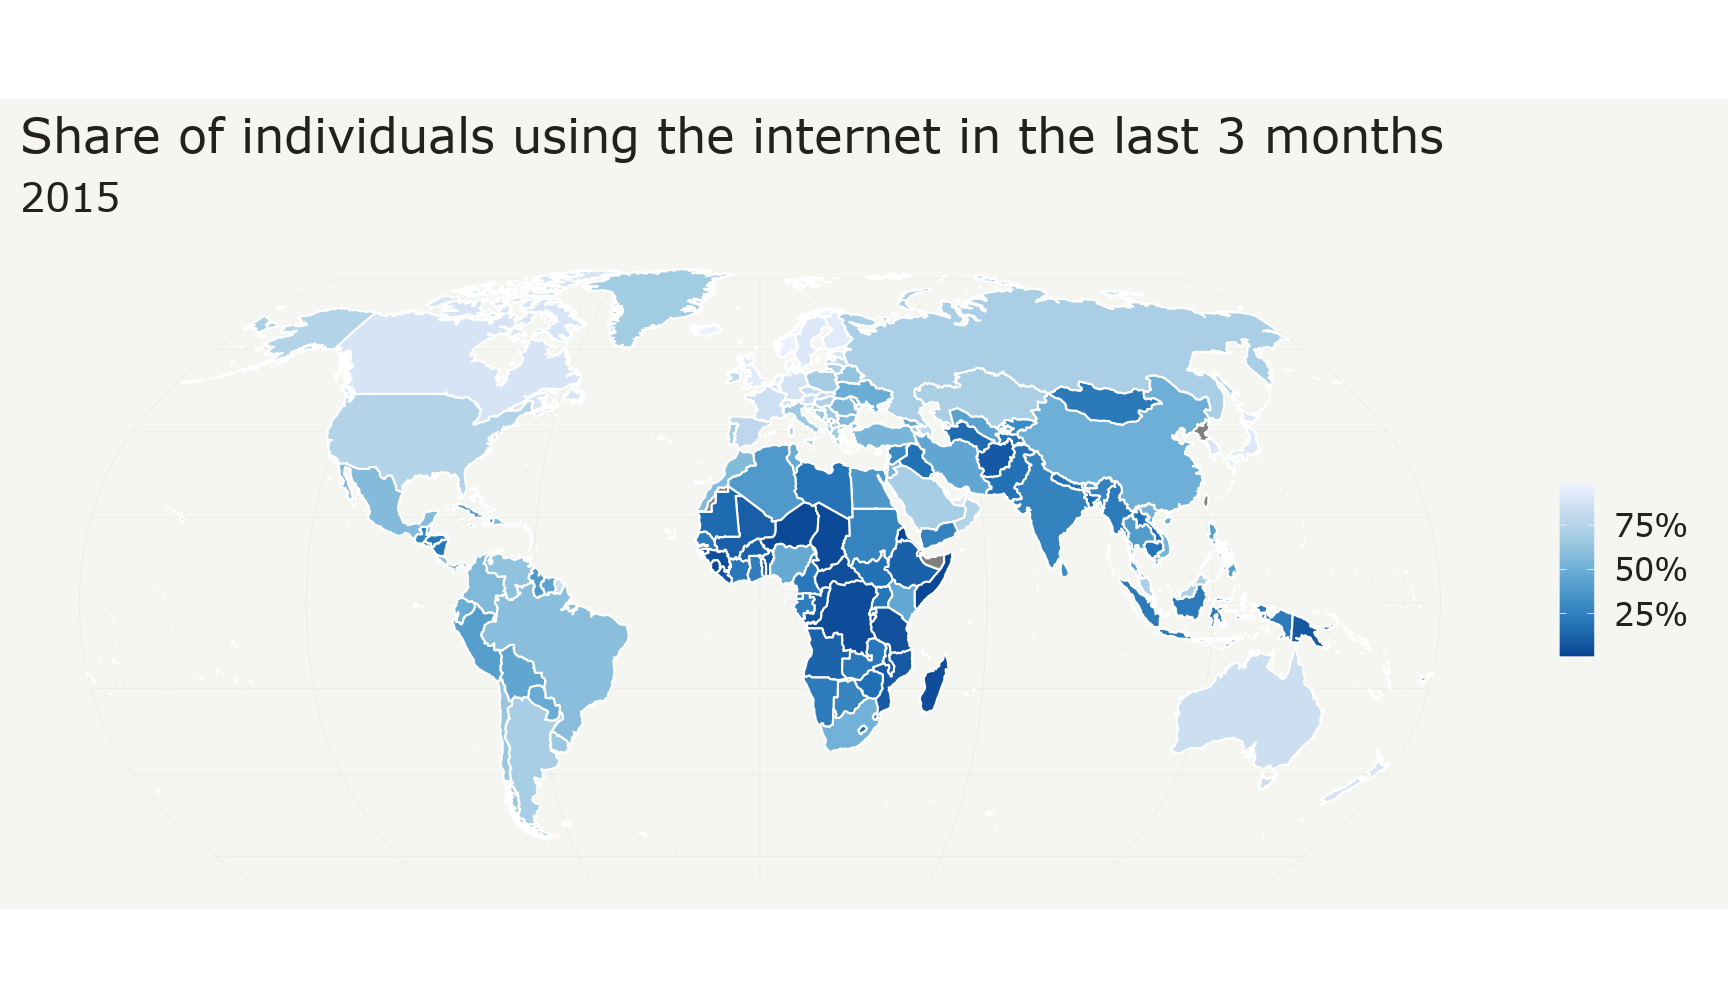
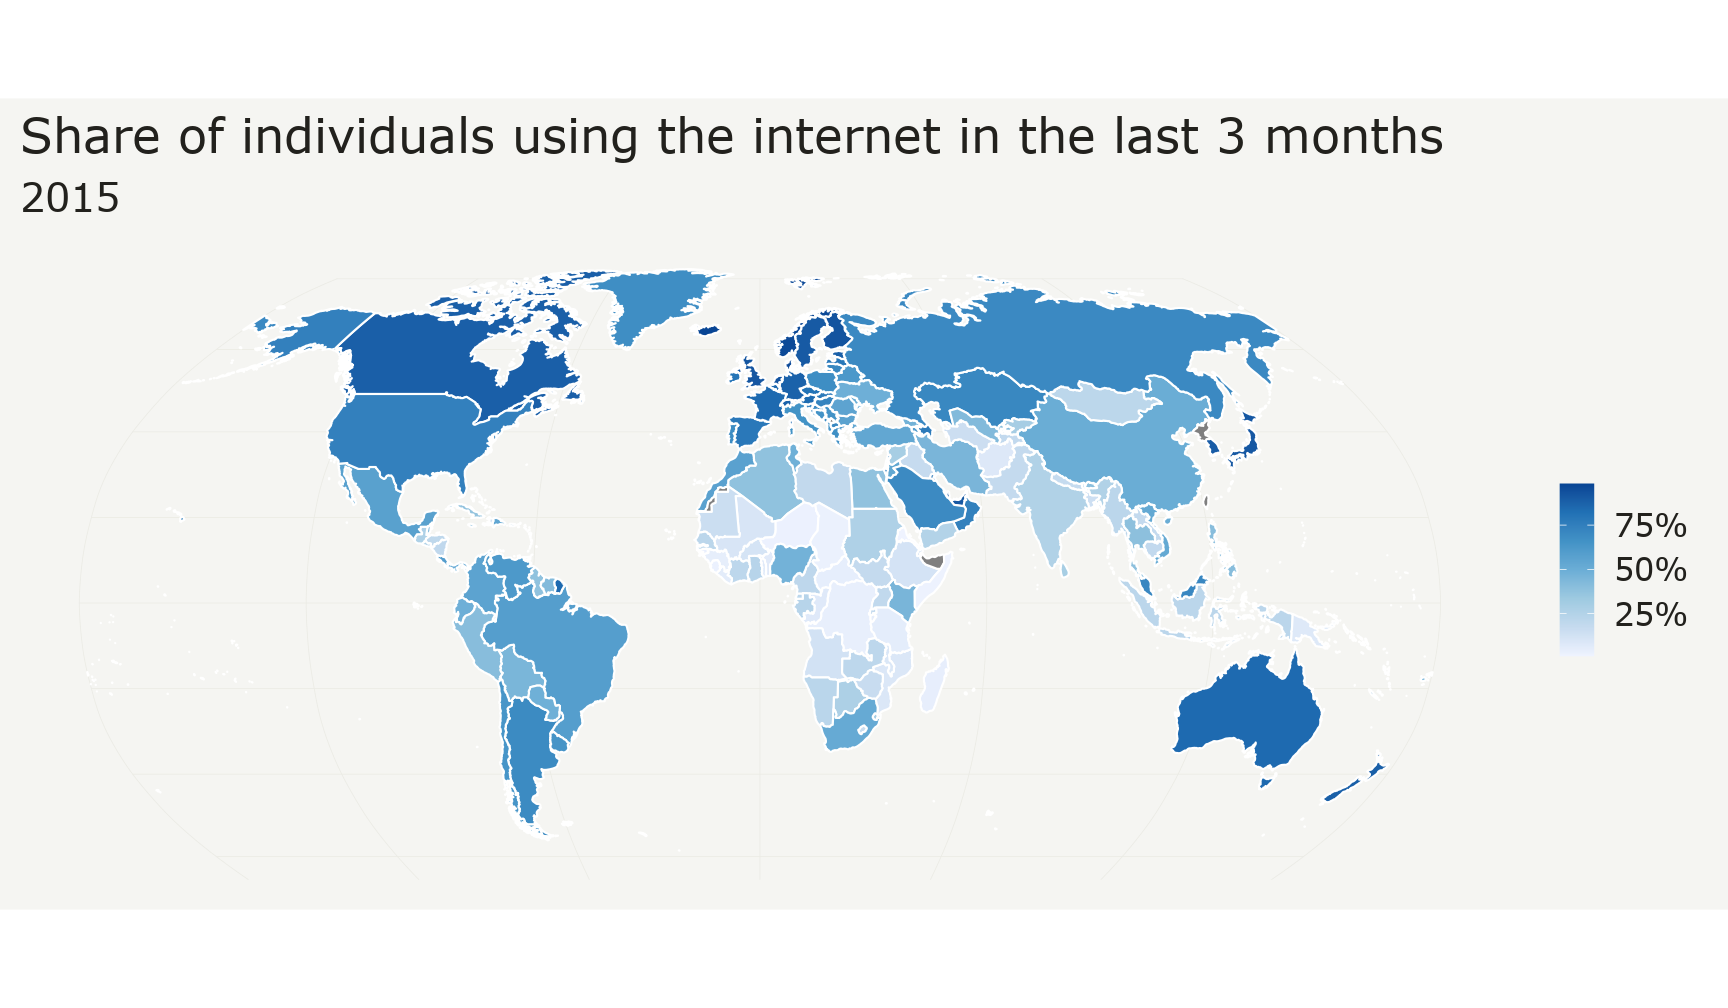
Flip direction of palette for demo

diff --git a/slides/index.html b/slides/index.html
@@ -432,7 +432,7 @@ class: middle, center, inverse
 
 # Exercise on implementing palettes
 
-<div class="countdown" id="timer_61819a7d" style="right:0;bottom:0;" data-warnwhen="0">
+<div class="countdown" id="timer_61819c36" style="right:0;bottom:0;" data-warnwhen="0">
 <code class="countdown-time"><span class="countdown-digits minutes">08</span><span class="countdown-digits colon">:</span><span class="countdown-digits seconds">00</span></code>
 </div>
 
@@ -539,7 +539,7 @@ class: center, middle, inverse
 
 # Exercise on diverging palettes
 
-<div class="countdown" id="timer_61819a6d" style="right:0;bottom:0;" data-warnwhen="0">
+<div class="countdown" id="timer_61819bde" style="right:0;bottom:0;" data-warnwhen="0">
 <code class="countdown-time"><span class="countdown-digits minutes">08</span><span class="countdown-digits colon">:</span><span class="countdown-digits seconds">00</span></code>
 </div>
 
@@ -816,7 +816,7 @@ class: middle, center, inverse
 
 # Exercises on interpolating continuous variables
 
-<div class="countdown" id="timer_61819973" style="right:0;bottom:0;" data-warnwhen="0">
+<div class="countdown" id="timer_61819df8" style="right:0;bottom:0;" data-warnwhen="0">
 <code class="countdown-time"><span class="countdown-digits minutes">07</span><span class="countdown-digits colon">:</span><span class="countdown-digits seconds">00</span></code>
 </div>
     </textarea>
